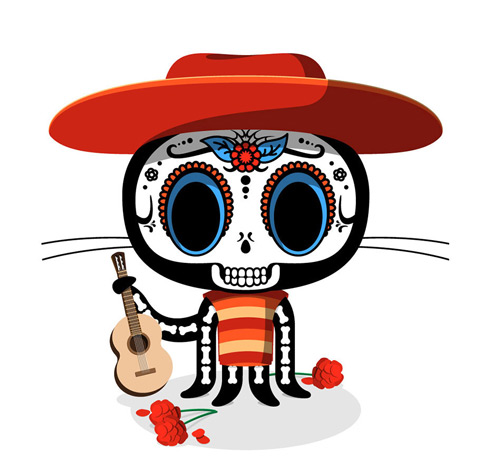
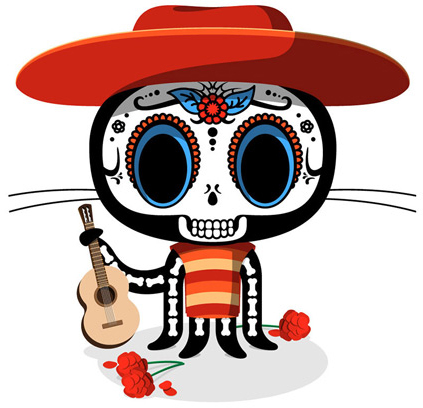
Trimmed images and styled page

diff --git a/index.html b/index.html
@@ -3,11 +3,14 @@
 <head>
 	<title>Hello World</title>
 	<link rel="stylesheet" href="assets/css/style.css">
+	<link href='https://fonts.googleapis.com/css?family=Ubuntu:400,300,300italic,400italic,500,700italic,700,500italic' rel='stylesheet' type='text/css'>
 </head>
 <body>
-	<div class="github-img">
-		<img class="assets/img/octocat.jpg">
+	<div class="page-content">
+		<div class="github-img">
+			<img src="assets/img/octocat-jedi.jpg">
+		</div>
+		<h1>Hello GitHub World!</h1>
 	</div>
-	<h1>Hello GitHub World!</h1>
 </body>
 </html>

diff --git a/assets/css/style.css b/assets/css/style.css
@@ -1,0 +1,25 @@
+body {
+	margin: 0;
+	height: 100vh;
+}
+
+.page-content {
+	position: absolute;
+	width: 100%;
+	top: 50%;
+	transform: translateY(-50%);
+}
+
+.github-img img {
+	height: 300px;
+	width: auto;
+	margin: 0 auto;
+	display: block;
+}
+
+h1 {
+	font-family: Ubuntu, sans-serif;
+	font-weight: 300;
+	color: #ccc;
+	text-align: center;
+}
